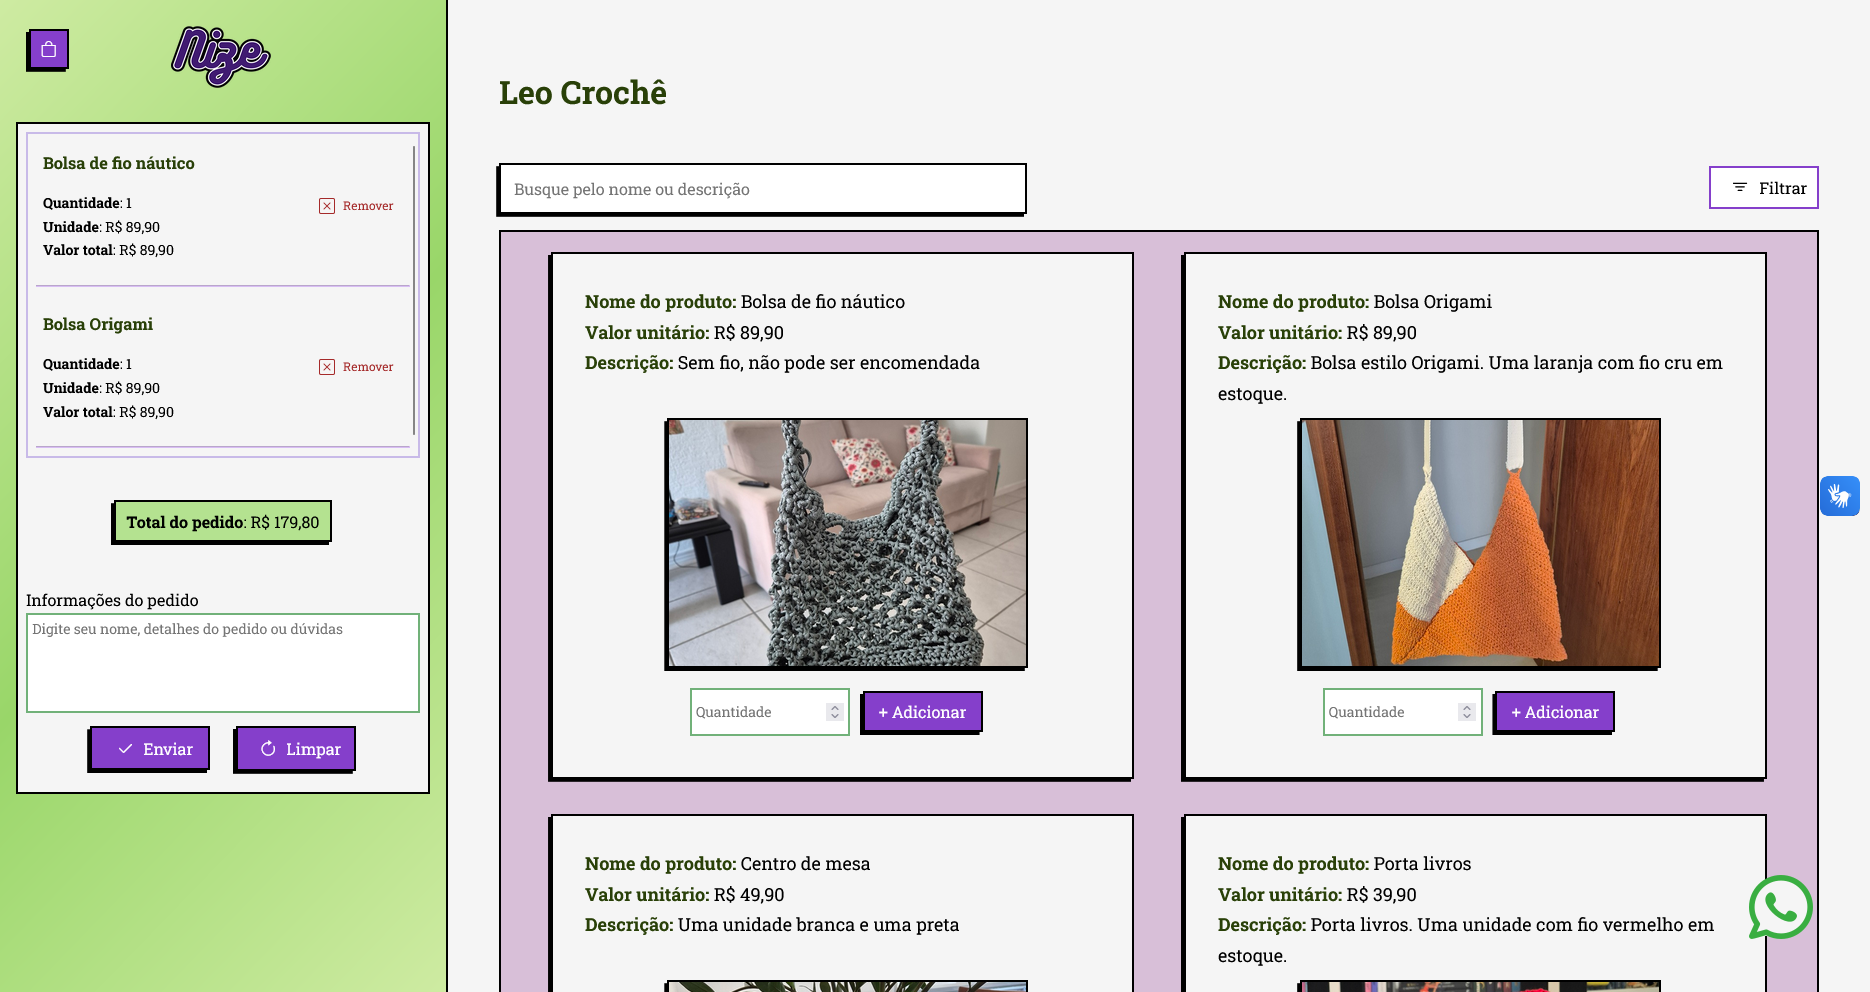
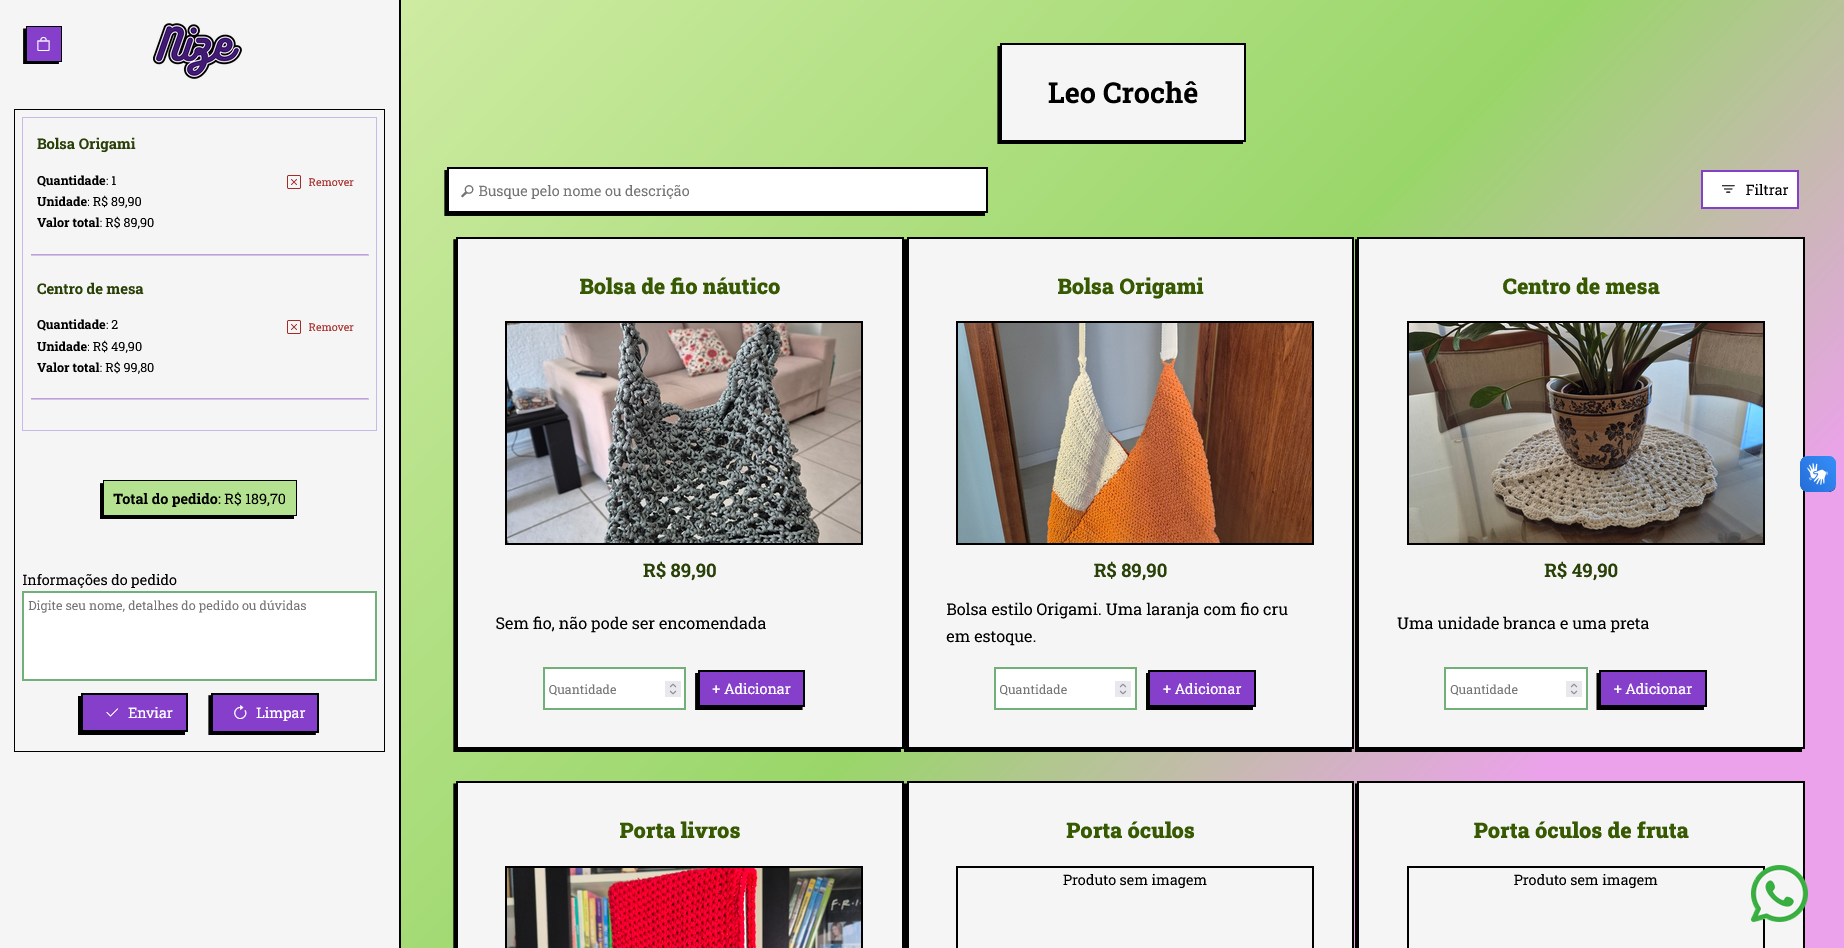
comentário de pedido adicionado

diff --git a/php/view/pedidos/cadastro_pedidos.php b/php/view/pedidos/cadastro_pedidos.php
@@ -143,6 +143,12 @@ if (isset($_SESSION['encomendaSelecionada'])) {
                                 <p><strong>Nome do produto:</strong> <?php echo htmlspecialchars(mb_convert_encoding($item['nome'], "UTF-8", "AUTO")); ?></p>
                                 <p><strong>Quantidade disponível:</strong> <?php echo htmlspecialchars($item['quantidade']); ?> </p>
                                 <p><strong>Unidade: R$</strong> <?php echo number_format((float)$item['valor_unitario'], 2, ',', '.') ?> </p>
+                                <p class="p-descricao"><strong>Comentário:</strong>
+                                    <?php if ($item['comentario']) {
+                                        echo htmlspecialchars($item['comentario']);
+                                    } else {
+                                        echo "--";
+                                    } ?></p>
                                 <p><strong>Aceita encomenda:</strong> <?php echo $item['aceita_encomenda'] ? "Sim" : "Não"; ?></p>
                                 <p class="p-descricao"><strong>Descrição:</strong> <?php if (htmlspecialchars($item['descricao'])) {
                                                                                         echo htmlspecialchars($item['descricao']);
@@ -157,7 +163,7 @@ if (isset($_SESSION['encomendaSelecionada'])) {
                                     echo "<p class='img-produtos'>Nenhuma imagem cadastrada</p>";
                                 } ?>
                                 <form action="../../controller/pedidoControle.php" method="get" class="product-btns">
-                                    <input type="number"  step="1" min="0" onkeydown="return ['Backspace', 'Delete', 'ArrowLeft', 'ArrowRight'].includes(event.key) || !isNaN(Number(event.key))" name="quantidadeVendida" id="quantidadeVendida" class="input-pedido" maxlength="3" placeholder="Quantidade" autocomplete="off">
+                                    <input type="number" step="1" min="0" onkeydown="return ['Backspace', 'Delete', 'ArrowLeft', 'ArrowRight'].includes(event.key) || !isNaN(Number(event.key))" name="quantidadeVendida" id="quantidadeVendida" class="input-pedido" maxlength="3" placeholder="Quantidade" autocomplete="off">
                                     <input type="hidden" name="op" value="adicionarQuantidade">
                                     <input type="hidden" name="id" value="<?php echo $item['id_produto']; ?>">
                                     <input type="submit" class="btn-add" value="+ Adicionar">

diff --git a/php/view/pedidos/alteracao_pedidos.php b/php/view/pedidos/alteracao_pedidos.php
@@ -151,6 +151,12 @@ $infoPedidoBanco = $pedidoDAO->buscarPedidoID($id_pedido);
                                 <p><strong>Nome do produto:</strong> <?php echo htmlspecialchars(mb_convert_encoding($item['nome'], "UTF-8", "AUTO")); ?></p>
                                 <p><strong>Quantidade disponível:</strong> <?php echo htmlspecialchars($item['quantidade']); ?> </p>
                                 <p><strong>Unidade:</strong> <?php echo "R$ " . number_format((float)$item['valor_unitario'], 2, ',', '.'); ?> </p>
+                                <p class="p-descricao"><strong>Comentário:</strong>
+                                    <?php if ($item['comentario']) {
+                                        echo htmlspecialchars($item['comentario']);
+                                    } else {
+                                        echo "--";
+                                    } ?></p>
                                 <p><strong>Aceita encomenda:</strong> <?php if ($item['aceita_encomenda']) {
                                                                             echo "Sim";
                                                                         } else {
@@ -171,7 +177,7 @@ $infoPedidoBanco = $pedidoDAO->buscarPedidoID($id_pedido);
                                 } ?>
                                 <form action="../../controller/pedidoControle.php" method="get" class="product-btns">
                                     <input type="number" step="1" min="0" step="1" min="0" onkeydown="return ['Backspace', 'Delete', 'ArrowLeft', 'ArrowRight'].includes(event.key) || !isNaN(Number(event.key))"
-                                     name="quantidadeVendida" id="quantidadeVendida" class="input-pedido" maxlength="3" placeholder="Quantidade" autocomplete="off">
+                                        name="quantidadeVendida" id="quantidadeVendida" class="input-pedido" maxlength="3" placeholder="Quantidade" autocomplete="off">
                                     <input type="hidden" name="op" value="adicionarQuantidade">
                                     <input type="hidden" name="id" value="<?php echo $item['id_produto']; ?>">
                                     <input type="submit" class="btn-add" value="+ Adicionar">

diff --git a/php/view/pedidos/busca_produtos_pedidos_ajax.php b/php/view/pedidos/busca_produtos_pedidos_ajax.php
@@ -58,6 +58,13 @@ if (!empty($lista)) {
             $aceita_encomenda = "Não aceita";
         }
 
+        echo '<p class="p-descricao"><strong>Comentário:</strong>';
+        if ($item['comentario']) {
+            echo htmlspecialchars($item['comentario']);
+        } else {
+            echo "--";
+        }
+        echo '</p>';
         echo '<p><strong>Aceita encomenda: </strong>' . $aceita_encomenda . '</p>';
         echo '<p class="p-descricao"><strong>Descrição: </strong>' . htmlspecialchars($item['descricao']) . '</p>';
         echo '</div>';
@@ -72,7 +79,7 @@ if (!empty($lista)) {
 ?>
         <form action="../../controller/pedidoControle.php" method="get" class="product-btns">
             <!-- <span class="bi bi-bag-plus"></span> -->
-            <input type="number"  step="1" min="0" onkeydown="return ['Backspace', 'Delete', 'ArrowLeft', 'ArrowRight'].includes(event.key) || !isNaN(Number(event.key))" name="quantidadeVendida" id="quantidadeVendida" class="input-pedido" maxlength="3" placeholder="Quantidade" autocomplete="off">
+            <input type="number" step="1" min="0" onkeydown="return ['Backspace', 'Delete', 'ArrowLeft', 'ArrowRight'].includes(event.key) || !isNaN(Number(event.key))" name="quantidadeVendida" id="quantidadeVendida" class="input-pedido" maxlength="3" placeholder="Quantidade" autocomplete="off">
             <input type="hidden" name="op" value="adicionarQuantidade">
             <input type="hidden" name="id" value="<?php echo $item['id_produto']; ?>">
             <input type="submit" class="btn-add" value="+ Adicionar">

diff --git a/php/view/pedidos/visualizacao_pedidos.php b/php/view/pedidos/visualizacao_pedidos.php
@@ -169,7 +169,7 @@ if (isset($_SESSION['pedidoSelecionado'])) {
               $dataBanco = $dados_pedido['data'];
               $formatoData = strtotime($dataBanco);
               $data = date("d/m/Y", $formatoData);
-              $comentario = htmlspecialchars($dados_pedido['comentario']);
+              $comentario = $dados_pedido['comentario'];              
               $status = $dados_pedido['status'];
               $statusView = '';
 
@@ -192,11 +192,12 @@ if (isset($_SESSION['pedidoSelecionado'])) {
               <p><strong>Data: </strong><?php echo $data ?></p>
               <p><strong>Valor final: </strong> R$ <?php echo number_format((float)$dados_pedido['valor_final'], 2, ',', '.') ?></p>
               <p><strong>Status: </strong><?php echo $statusView ?></p>
-              <p class="p-descricao"><strong>Comentário: </strong><?php if ($comentario) {
-                                                                    echo $comentario;
-                                                                  } else {
-                                                                    echo "Nenhum comentário adicionado";
-                                                                  } ?></p>
+              <p class="p-descricao"><strong>Comentário: </strong>
+              <?php if ($comentario) {
+                      echo $comentario;
+                    } else {
+                      echo "Nenhum comentário adicionado";
+                    } ?></p>
             </div>
 
             <div class="product-btns pedido-btns">

diff --git a/php/view/pedidos/clonar_pedido.php b/php/view/pedidos/clonar_pedido.php
@@ -132,6 +132,12 @@ if (isset($_SESSION['pedidoSelecionado'])) {
                                 <p><strong>Nome do produto:</strong> <?php echo htmlspecialchars(mb_convert_encoding($item['nome'], "UTF-8", "AUTO")); ?></p>
                                 <p><strong>Quantidade disponível:</strong> <?php echo htmlspecialchars($item['quantidade']); ?> </p>
                                 <p><strong>Unidade:</strong> <?php echo "R$ " . number_format((float)$item['valor_unitario'], 2, ',', '.'); ?> </p>
+                                <p class="p-descricao"><strong>Comentário:</strong>
+                                    <?php if ($item['comentario']) {
+                                        echo htmlspecialchars($item['comentario']);
+                                    } else {
+                                        echo "--";
+                                    } ?></p>
                                 <p><strong>Aceita encomenda:</strong> <?php if ($item['aceita_encomenda']) {
                                                                             echo "Sim";
                                                                         } else {

diff --git a/php/view/usuario/view_loja.php b/php/view/usuario/view_loja.php
@@ -101,7 +101,7 @@ if (!empty($_SESSION['usuario_logado'])) {
                                 echo "</div>";
 
                                 // Link de remoção passando origem=loja e nome da loja
-                                echo "<a href='../controller/pedidoControle.php?op=removerQuantidade&id=$id_produto&valor=$valor&origem=loja&loja=" . urlencode($nome_visualizacao) . "' class='btn-remover'><span class='bi bi-x-square'></span>Remover</a>";
+                                echo "<a href='../../controller/pedidoControle.php?op=removerQuantidade&id=$id_produto&valor=$valor&origem=loja&loja=" . urlencode($nome_visualizacao) . "' class='btn-remover'><span class='bi bi-x-square'></span>Remover</a>";
                                 echo "</div>";
                                 echo "<hr>";
                             } else {

diff --git a/php/controller/pedidoControle.php b/php/controller/pedidoControle.php
@@ -187,6 +187,8 @@ switch ($opcao) {
 
             if ($darBaixaEstoque == 1) {
                 $comentarioFinal = "### Pedido com baixa no estoque ### " . $comentarioPedido;
+            } else {
+                $comentarioFinal = $comentarioPedido;
             }
 
             $novoPedido = new Pedido();
@@ -274,6 +276,7 @@ switch ($opcao) {
             $prazoPedido = $_GET['prazoPedido'] ?? "";
             $statusPedido = $_GET['statusPedido'] ?? '';
             $comentarioPedido = trim($_GET['comentarioPedido'] ?? "");
+            $comentarioFinal = $comentarioPedido;
 
             $darBaixaEstoque = isset($_GET['darBaixaEstoque']) ? 1 : 0;
             $estornarEstoque = isset($_GET['estornarEstoque']) ? 1 : 0;

diff --git a/php/view/pedidos/busca_pedidos_ajax.php b/php/view/pedidos/busca_pedidos_ajax.php
@@ -34,7 +34,7 @@ if (!empty($listaPedidos)) {
     foreach ($listaPedidos as $id_pedido => $dados_pedido) {
         $data = date("d/m/Y", strtotime($dados_pedido['data']));
 
-        $comentario = htmlspecialchars($dados_pedido['comentario']);
+        $comentario = $dados_pedido['comentario'];
 
 
         $statusView = '';

diff --git a/TODO.md b/TODO.md
@@ -1,13 +1,3 @@
-# Adicionando COMENTÁRIO e INFORMAÇÕES PÚBLICAS
-
-- Colocar para puxar nos AJAX
-- Colocar para puxar nas páginas de PEDIDOS (criar, alterar, clonar)
-
-## NÃO FUNCIONOU:
-- PEDIDOS
-    - Não tá salvando os comentários 
-
-
 ### Documentação 
 - NA DOCUMENTAÇÃO
     - Adicionar nos diagramas
